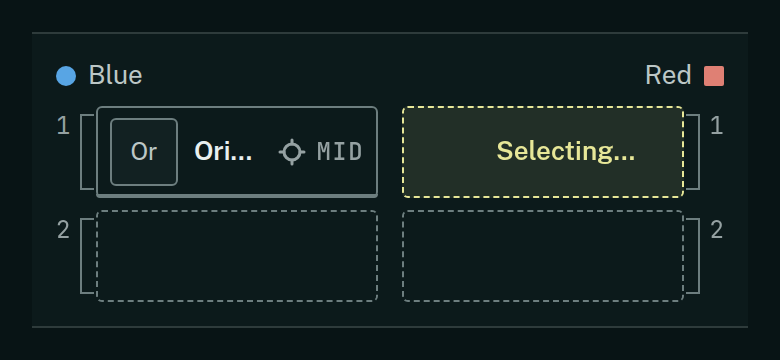
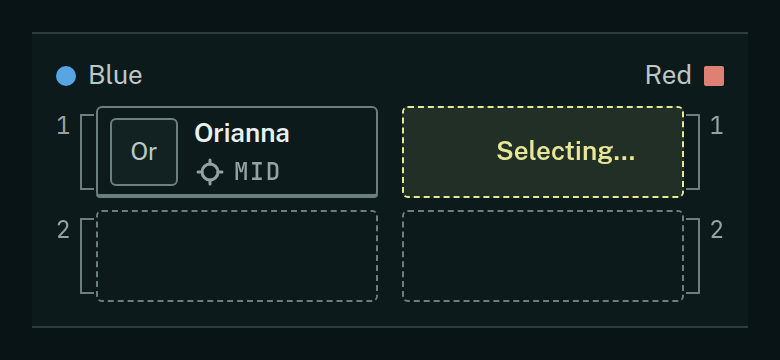
fix(m151): lock-in stacks role under 640 px, bulk-entry still, stamp static; atelier critiques

Changed region(s): [[0.2462, 0.3361, 0.4615, 0.5194]]

diff --git a/.planning/missions/M151/gallery/prototypes/lockin.html b/.planning/missions/M151/gallery/prototypes/lockin.html
@@ -45,7 +45,13 @@
             border: 1px solid var(--color-outline); border-radius: var(--radius-ctl); background: var(--color-ink-2);
             color: var(--color-secondary); }
   .gap8 { width: calc(var(--spacing) * 8); height: calc(var(--spacing) * 8); flex: none; }
-  .text { display: flex; flex: 1; flex-direction: column; min-width: 0; line-height: 1.25; }
+  /* Below sm (640 px) the name and the role stack; from sm up they share one line. */
+  .text { display: flex; flex: 1; flex-direction: column; align-items: flex-start; gap: 2px; min-width: 0; line-height: 1.25; }
+  .slot[data-filled="true"] .title { max-width: 100%; }
+  @media (min-width: 640px) {
+    .slot[data-filled="true"] .text { flex-direction: row; align-items: center; gap: calc(var(--spacing) * 2); }
+    .slot[data-filled="true"] .role { margin-left: auto; }
+  }
   .title { font-weight: 600; overflow: hidden; text-overflow: ellipsis; white-space: nowrap; }
   .title.sel { color: var(--color-accent); }
   .cap { color: var(--color-muted); }
@@ -86,7 +92,7 @@
 <main>
   <p class="eyebrow">M151 prototype, not wired into the board</p>
   <h1 class="text-headline">Lock-in</h1>
-  <p class="lede text-reading">A pick fills its slot: a chalk stroke draws along the bottom edge in 220 ms and the role mark settles. The stroke holds 400 ms, then hands to the outline colour. A second lock-in within one second is instant.</p>
+  <p class="lede text-reading">A pick fills its slot: a chalk stroke draws along the bottom edge in 220 ms and the role mark settles. The stroke holds 400 ms, then hands to the outline colour. A second lock-in within one second is instant (<code>bulkDemo()</code>).</p>
 
   <div id="board" class="board" role="grid" aria-label="Draft board, picks">
     <div class="col blue" role="row">
@@ -122,7 +128,7 @@
   // Draft order of these four pick slots, with the champion each takes.
   const ORDER = [
     { slot: 6, name: "Orianna", mono: "Or", role: "MID", label: "Blue pick 1" },
-    { slot: 7, name: "Vi", mono: "Vi", role: "JGL", label: "Red pick 1" },
+    { slot: 7, name: "Aurelion Sol", mono: "AS", role: "MID", label: "Red pick 1" },
     { slot: 8, name: "Ornn", mono: "Or", role: "TOP", label: "Red pick 2" },
     { slot: 9, name: "Jarvan IV", mono: "JI", role: "JGL", label: "Blue pick 2" },
   ];
@@ -144,9 +150,9 @@
   }
   function fill(el, o) {
     el.innerHTML = `<span class="avatar text-caption" aria-hidden="true">${o.mono}</span>` +
-      `<span class="text"><span class="title text-label">${o.name}</span></span>` +
+      `<span class="text"><span class="title text-label">${o.name}</span>` +
       `<span class="role text-caption"><svg viewBox="0 0 16 16" fill="none" stroke="currentColor" stroke-width="1.5" stroke-linecap="round" stroke-linejoin="round" aria-hidden="true">${MARKS[o.role]}</svg>` +
-      `<span aria-hidden="true">${o.role}</span></span><span class="lockbar" aria-hidden="true"></span>`;
+      `<span aria-hidden="true">${o.role}</span></span></span><span class="lockbar" aria-hidden="true"></span>`;
     el.setAttribute("aria-label", `${o.label}, ${o.name}, ${WORD[o.role]}`);
   }
   // The one moment: a pick fills its slot. Bulk entry (< 1 s since the last) is instant.
@@ -159,6 +165,9 @@
     document.getElementById("status").textContent =
       step < ORDER.length ? `${o.name} locked in. ${ORDER[step].label} of 10` : `${o.name} locked in.`;
   };
+  // Verification hook: keyboard bulk entry, two lock-ins within 1 s. The first animates,
+  // the second lands instantly (full-width outline bar, mark in place).
+  window.bulkDemo = function () { resetBoard(); lockIn(); lockIn(); };
   window.resetBoard = function () { step = 0; lastLock = -Infinity; render();
     document.getElementById("status").textContent = "Blue pick 1 of 10"; };
   render();

diff --git a/.planning/missions/M151/gallery/prototypes/stamp.html b/.planning/missions/M151/gallery/prototypes/stamp.html
@@ -28,15 +28,6 @@
   .stamp[data-result="Loss"] { background: transparent; color: var(--color-loss); }
   @media (min-width: 768px) { .stamp { width: 80px; height: 80px; font-size: 48px; } }
 
-  /* Candidate motion (see NOTES.md: the card says "Motion: none"). Drawn once, 160 ms, no scale, no rotation. */
-  .stamp[data-stamped="anim"] { animation: stamp-in var(--dur-2) var(--ease-out) both; }
-  .stamp[data-stamped="anim"] > span { animation: stamp-letter var(--dur-2) var(--ease-out) both; }
-  @keyframes stamp-in { from { opacity: 0; } to { opacity: 1; } }
-  @keyframes stamp-letter { from { transform: translateY(2px); } to { transform: none; } }
-  @media (prefers-reduced-motion: reduce) {
-    .stamp[data-stamped], .stamp[data-stamped] > span { animation: none; }
-  }
-
   .actions { margin-top: calc(var(--spacing) * 5); }
   button { font: inherit; height: calc(var(--spacing) * 8); padding: 0 calc(var(--spacing) * 3); border-radius: var(--radius-ctl);
            border: 1px solid var(--color-accent); background: var(--color-accent); color: var(--color-accent-ink); cursor: pointer; }
@@ -61,13 +52,5 @@
   </div>
   <div class="actions"><button type="button">Write the review</button></div>
 </main>
-<script>
-  // Present at first paint (the card). stamp() replays the candidate "drawn once" entrance.
-  window.stamp = function () {
-    document.querySelectorAll(".stamp").forEach((el) => {
-      delete el.dataset.stamped; void el.offsetWidth; el.dataset.stamped = "anim";
-    });
-  };
-</script>
 </body>
 </html>

diff --git a/.planning/missions/M151/critique-r0-t1.md b/.planning/missions/M151/critique-r0-t1.md
@@ -1,0 +1,109 @@
+# M151 critique R0: T1 stills, marks re-check, prototypes (atelier, 2026-10-16)
+
+Mode: critique. References: `references.md` (T1 card, Match Day field card, Lock-in, Post-game stamp, Mark grid spec, refs `map.png` / `map-grey.png` / `pressog.png`), `critique-marks.md`, `docs/DESIGN.md` (2.x accent rule line 202, Match Day line 421, chalk rule line 463, section 13 bans). I wrote the cards, not these builds: no self-approval conflict. This critique **amends the T1 card** (river, hatch, share crop, inset); the re-render of those amendments must go to a fresh-context critique, not to me.
+
+## What I ran
+
+- Opened every PNG named in the task (T1 stills + `-full`, marks contact 1280/390 at DPR 1/2, lock-in and stamp strips, rm and 800 ms frames), plus 4x to 10x crops of the sketch, the inset, the share strip and every 16 px mark at DPR 1 (`/tmp/m151r0/`, not committed).
+- Contrast from rendered pixels (WCAG relative luminance, ground `page` rgb 8,20,21 or `ink-1` rgb 12,26,27): sketch ink 8.3:1 at 390 and up to 10.8:1 at 1280 (crossing pixels), chalk 14.5:1, tick labels `muted` 7.0:1, Match Day inset 8.0:1, loss L + outline 6.7:1. All pass A2.
+- Visual mass at 1280 (luminance above ground, summed): headline 6,692 vs sketch 3,347. The headline holds on mass; the hatch still competes as *texture* (see concern 2).
+- `rubric-check.mjs --app-dir gallery/surfaces` on all three surfaces (phone + desktop), served locally, `NODE_PATH=e2e/node_modules`:
+
+| Row | landing | share | matchday | Note |
+|---|---|---|---|---|
+| V1 | PASS | PASS | PASS | tokens only |
+| V2 | FIX* | FIX* | FIX* | *`.sr-only` 1 px, `.btn` 1 px transparent border, 1 px SVG strokes: hairlines, not spacing. Accepted as not-a-finding. |
+| V3 | FIX* | PASS | FIX* | *heuristic counts source chars; rendered measure ~52 CPL. Accepted. |
+| V4, A1, A2, A3, I7 | PASS | PASS | PASS | |
+| I1, I2, I6, I8 | FIX | FIX | FIX | GUESS rows: app features (settings, undo) absent from a still. N/A here. |
+
+- Not run: a 50 ms first-frame capture (the gallery injects the art after `fetch`; production must inline the SVG server-side, as the builder notes). Lock-in bulk-entry capture: **missing from the deliverables** (see C).
+
+## Craft first (one sentence per question)
+
+- **Could you name the shape?** At 390 and in the share strip: yes, "a square with an X" / "slashes". That is the core failure: the hatch runs at 45 degrees **parallel to the mid lane**, so mid dissolves into the hatch, and the straight double-line river reads as two more hatch lines. Only the bases and the open corners say "map".
+- **Edge/stroke character vs reference?** One weight, one ink, open line ends: matches `map-grey.png` and `pressog.png`. But the builder's quadratic bows (<= 0.45 units) on frame, lanes and mid make the lines look mis-ruled (top lane drifts 3 px over 410 px at 1280), not hand-drawn: the worst of both. The card forbade faking a hand.
+- **Occludes content?** No. Chalk label has a clearing; hatch never touches text.
+- **Would a design director ship it?** Not yet: the skeleton is right, the hatch and river are wrong.
+
+## Rulings on the orchestrator's concerns
+
+1. **Mechanical vs one-stroke hand.** T1 promised a ruled survey schematic ("built from geometry ... never traced", "Do not: jitter or wobble to fake a hand", link-check calls it "one-stroke schematic"), not freehand. **Do not** move to a jittered, variable-width (1 to 1.5 px) hand generator: that breaks the one-weight rule and lands on the Excalidraw / "hand-drawn AI illustration" default (V7). The fix is cartographic, per swisstopo: **built things ruled, water free**. Straighten every lane and frame line (remove the bows); make the river the one curved feature. That gives the drawing its life and makes it read as the Rift, not an X.
+2. **Hatch too heavy.** Yes, as texture: ~60 % cover of long 45-degree lines over 560 px. Fix with direction (stop paralleling mid) and length (below), which cuts line length about 2.5x.
+3. **Match Day "both sides' marks facing".** My card asked for an 88 px thumbnail; the builder followed it. The phrase is not in `references.md` or on disk (if it is in the owner's brief, send me the line). Either way the render fails craft: at 88 px the 4-unit hatch is 3.5 px apart and goes to grey mush; the bases are 2.6 px dots. Fix below gives the two side shapes facing across the river.
+4. **V5 at 390 ("League team" in one second).** FIX. "Team" is in the headline; "League" rests on recognising lanes-river-bases, which the parallel hatch currently hides. Re-judge after fixes T1-1 to T1-3. No copy change from me (naming the game in copy is a legal question: ask the librarian).
+5. **Chalk count.** Landing 1280 and 390: **2** (Sign in, YOUR TEAM label + leader). Share 390: **1** (opponent label; no primary action on the page). Match Day 390: **1** (Read the brief). Landing's second chalk is card-sanctioned as "selection" (your team, surveyed) and sits on a diagonal away from the button at 1280: accept, but DESIGN line 202 ("not for decoration") must be amended to say so (flag below).
+
+## Builder's calls
+
+- **Chalk "RIVERSIDE ROOKS" on share:** allowed by the card, but in this crop it labels nothing (no base, no leader) and implies a side the data may not have. FIX (T1-5).
+- **Match Day header title "Northgate Academy":** REJECT. Your own team name carries no information on your own Match Day. Revert to DESIGN 421: title "Scrim vs Riverside Rooks"; change the field-card sentence to "Best of 3, with 2 of 5 prep steps done." (no opponent, no format repeated in the header meta: meta becomes "Northgate Academy · Patch 16.20 since 11 Oct", the time lives only in the lead figure).
+- **Quiet PrepSequence without chalk:** PASS. Builder work if T1 ships: `PrepEmphasis::Quiet` draws the next step's number box `border-outline` + `text-primary`, no `accent` (DESIGN 463).
+- **Baron/Dragon spot marks at 1280 only:** PASS (muted, with words, read as survey annotations). Move them per T1-2 so they sit in the *curved* river's pits, 2 units off the bank.
+- **Tower unused:** PASS. No tower on the sketch (would invite eleven more).
+
+## A. T1 stills
+
+| Still | V1 | V2 | V5 | V7 | V8 | A2 | A3 | A4 | I7 | Verdict |
+|---|---|---|---|---|---|---|---|---|---|---|
+| landing 1280 | PASS | PASS* | PASS (headline leads) | PASS | FIX (bows; hatch parallel to mid) | PASS | PASS | PASS | PASS | **FIX** |
+| landing 390 | PASS | PASS* | FIX | PASS | FIX | PASS | PASS | PASS | PASS | **FIX** |
+| share 390 | PASS | PASS* | n/a | PASS | FIX (label labels nothing) | PASS | PASS | PASS | PASS | **FIX** |
+| matchday 390 | PASS | PASS* | PASS (lead figure) | PASS | FIX (inset mush; header title) | PASS | PASS | PASS | PASS | **FIX** |
+
+V7: no gradient, blur, emoji, glow, parchment, sepia, brush, compass rose, Inter or rounded-card kit; Familjen display. Clean.
+
+### FIX list, `tools/build-t1-rift.py` (all in 100x100 units)
+
+**T1-1 Straight built features.** Set every `wobbly(...)` bow to 0 (frame, both lanes, mid); replace the lane `Q` paths with straight `L` polylines: top `M10,84.5 L10,10 L83.5,10`, bot `M15.5,90 L90,90 L90,16.5`, mid `M15.2,84.8 L83.5,16.5`. Keep the open corners (frame stops 1.5 short) and the open ends at the bases. Remove the river's `j(0.1)` jitter.
+
+**T1-2 Curved river (the one free line).** Centreline, point-symmetric about (50,50): `M14,14 C26,30 36,40 50,50 C64,60 74,70 86,86`. Banks: sample 48 points per cubic, offset +/-1.5 units along the normal, emit each bank as a polyline. Break both banks where they come within 2 units of the mid line (x + y = 100). Baron mark centre at (31,27), Dragon at (69,73) (in the bends, 2 units clear of the near bank); recompute `MARK_CLEAR` boxes around mark + word.
+
+**T1-3 Hatch: perpendicular to its lane, shorter, sparser.** Left and right triangles: horizontal hatches; top and bottom: vertical. Spacing 6 units (was 4), positions 20, 26, ... 80 along the lane. For the left triangle at height y: `avail = 40 - |y - 50|`; hatch from x = 13 to x = 13 + 0.55 * (avail - 5), then clip to end >= 2 units before the curved bank and the mid line; drop any hatch shorter than 3 units; seeded jitter +/-0.6 units on the inner end only. Other triangles by rotation (right = point reflection through (50,50); top/bottom = swap x and y). Keep `LABEL_CLEAR`. Same stroke and ink as everything else. Expected: lit pixels from ~6.4 % to ~3 % at 1280.
+
+**T1-4 Match Day inset (new `t1-inset.svg`, same generator, flag `--inset`).** 88 px, `ink-1` ground. No outer frame, no hatch, no labels. Lanes square 10..90 as T1-1; mid; river as a **single** centreline (T1-2 path, no banks: two banks 1.3 px apart merge). Bases enlarged: circle r 7 centre (14,86); square side 12 from (82,6) (centre 88,12); lanes and mid stop 3 units short of each base outline. These are the two side shapes facing across the river (ink only; no side colour, per card).
+
+**T1-5 Share crop names a base.** Crop by the plan's draft side (`draft.our_side`; opponent is the other side):
+- opponent red: viewBox `54 4.6 40 10.73`; chalk "RIVERSIDE ROOKS" (`eyebrow`, `accent`, page halo) right-aligned to x 82, baseline y 8; 1 px chalk leader (82.5,7.6) to (85,9).
+- opponent blue: viewBox `6 84.67 40 10.73`; label left-aligned at x 17, baseline y 93.2; leader (16.5,92.4) to (14.1,90.1).
+- no draft side: keep today's crossing crop with **no** label (card: no chalk unless it names the team the plan is about, and it may not invent a side).
+Card amended accordingly.
+
+**T1-6 Share title wrap.** "vs Riverside Rooks / - Game 1 plan" breaks before the hyphen. Display the seed separator as no-break space + en dash: `"vs Riverside Rooks – Game 1 plan"` (presentation only, at render).
+
+**T1-7 Match Day header:** title "Scrim vs Riverside Rooks"; meta "Northgate Academy · Patch 16.20 since 11 Oct"; field-card sentence "Best of 3, with 2 of 5 prep steps done."
+
+Re-capture all four stills (+ full) at DPR 1 **and** 2 and send to a fresh critique.
+
+## B. Marks after the FIX pass
+
+All eight FIX items from `critique-marks.md` landed as specified (paths verified in `public/marks/*.svg`; triangle keyline in `design_marks.rs` line 136; 24 px files hold 2 px via `stroke-width 1.33333`). At 16 px DPR 1: Bot now reads as a graduated scale, not RSS; Baron's solid core is crisp; Dragon's wave floats; Jungle inside the live area; Support in band. **PASS.** Watch items: Support's U + dot can read as a letter U beside "SUP"; Herald's 1.5 px points are the faintest element in the set (accepted earlier). Ship conditions unchanged: DESIGN 6.3/7 amendment in the same change; `alt=""` on any `<img>` use; never `text-accent` on a mark.
+
+## C. Prototypes
+
+**Lock-in** (strips 390/1280, 800 ms, rm). Motion matches the card: 220 ms scaleX from the slot edge, strong ease-out (bar ~70 % at 44 ms), mark settles 2 px, nothing else moves; 800 ms frame shows the bar in `outline`; reduced motion shows the end state at once; the `animation: none` reasoning in NOTES is correct. **FIX** two items:
+1. **Truncation "Ori..." at 390** (present even at 0 ms, because the invisible mark already takes width). Below `sm` (640 px), the pick slot stacks: line 1 champion name `text-label` (truncate only as a last resort), line 2 `RoleLabel` at `text-caption` with the 16 px mark. Both lines fit the existing slot height (about 18 + 16 px inside the 44 px slot); verify "Orianna" and "Aurelion Sol" in full. From `sm` up, keep one line as in the 1280 strip.
+2. **Missing verification:** capture the bulk-entry case (`data-locked="instant"`, a lock-in < 1 s after the last) as one frame at 0 ms showing the full-width `outline` bar and no chalk.
+
+**Stamp** (strips, rm). Craft PASS: square, radius 0, Win `win` fill / `win-ink` W, Loss 1.5 px outline (6.7:1), no rotation or texture, side with its shape in the sentence. **Ruling on motion: static at first paint. Delete `stamp-in` / `stamp-letter` and `window.stamp()`.** "Drawn once" in the brief means one stamp per page, present once, never replayed; a 160 ms opacity entrance on page load is decorative load motion (the fade-in default) and gives the server-rendered first frame an invisible stamp. Lock-in remains the product's only signature motion. **PASS** once the entrance is removed.
+
+## Verdict
+
+| Item | Verdict |
+|---|---|
+| T1 landing 1280 | FIX (T1-1, T1-2, T1-3) |
+| T1 landing 390 | FIX (same; V5 re-judge) |
+| T1 share 390 | FIX (T1-5, T1-6) |
+| T1 Match Day 390 | FIX (T1-4, T1-7) |
+| Marks (nine) | PASS |
+| Lock-in | FIX (stack below sm; bulk-entry frame) |
+| Stamp | PASS, static; remove the entrance |
+
+No REJECT: the T1 primitive (one-ink line schematic on geometry) is right; the hatch direction and the straight river are what make it an X.
+
+## Staleness flags
+
+- CONTRADICTION: docs/DESIGN.md line 202 ("chalk ... not for decoration") vs `references.md` T1 card (chalk team label on landing/share art): amend DESIGN to allow one chalk team label per artwork view, never on Match Day.
+- STALE: `references.md` T1 card: river "two parallel lines" straight, hatch "45-degree", share crop "river crossing": superseded by T1-2, T1-3, T1-5 of this critique (card to be updated by the calling session; I do not rewrite it here).
+- CONTRADICTION: `references.md` Match Day field card sentence ("Scrim vs Riverside Rooks. 3 of 5 ...") vs DESIGN 421 header title: resolved by T1-7 (header keeps the opponent; sentence drops it).
+- CONTRADICTION (open): docs/DESIGN.md 6.3 and 7 ("no role icons") vs the shipped marks.

diff --git a/.planning/missions/M151/critique-marks.md b/.planning/missions/M151/critique-marks.md
@@ -1,0 +1,59 @@
+# M151 critique: the nine marks (atelier, 2026-10-16)
+
+Mode: critique. Reference: `references.md` "Mark grid spec" + section 2 (Lucide principles, Phosphor 16-first, swisstopo key). Builder of record: the M151 builder (I wrote the spec, not the drawings, so no self-approval conflict).
+
+## What I ran
+
+- Read `public/marks/*.svg`, `build-marks.py`, `src/pages/design_marks.rs`, both contact sheets (1280, 390).
+- Rasterised every 16 px master with `rsvg-convert` at 16 px (DPR 1) and 32 px (DPR 2) on a page-tone ground; looked at nearest-neighbour 10x enlargements and at 3x soft enlargements (what an eye at arm's length sees). Work files are in `/tmp/m151crit/` (not committed).
+- Ink coverage per mark (alpha sum at 160 px) and stroke bounding box, to check optical weight and the live area (1 to 15).
+- Contrast from pixels in `marks-contact-1280.png`: the brightest 16 px stroke pixel in the "page, secondary" panel is 10.8:1 against the ground (rgb 8,20,21). Passes.
+- Not run: the mobile capture, motion and reduced-motion steps (the marks are static, nothing to animate) and `rubric-check.mjs` (it needs a running app render; this slice is a contact sheet). Re-run them on the `/design` gallery once fixes land.
+- Lint: `./scripts/lint_design.sh` gives OK, every rule at zero. Tokens: `stroke-rule` / `stroke-outline` come from `--color-rule` / `--color-outline` in `input.css` `@theme` (lines 104 and 105), so Tailwind v4 generates both. `text-label`, `text-reading`, `text-caption`, `text-secondary`, `text-primary`, `text-muted` all exist. No raw palette, no radius, no sub-12 text.
+
+## Weight (ink coverage at the 16 master; set median 23.1 %)
+
+| top | jungle | mid | bot | support | dragon | baron | herald | tower |
+|---|---|---|---|---|---|---|---|---|
+| 23.5 | 25.4 | 19.1 | **11.7** | **17.0** | 25.3 | 26.2 | 21.8 | 23.1 |
+
+Target band: median plus or minus 20 % (18.5 to 27.7). Bot is at half the median and support is under the band, which matches what you see in the inline strip: those two look like they belong to a lighter set.
+
+## Craft questions first (per mark, at 16 px beside the word)
+
+| Mark | Can you name the shape? | Edge/stroke character | Riot distance | Verdict |
+|---|---|---|---|---|
+| Top | trig point (triangle + dot), as briefed | clean, apex round join | summit, no corner L: far | **PASS** |
+| Jungle | three map trees | crowns read; the bottom trunk ends at y 15.25, **outside the live area**; right trunk 0.8 px from the bottom crown (rule: 1.5) | no branches or claw: far | **FIX** |
+| Mid | survey station / map "locate" | strongest mark at 16 | concentric, no diagonal: far | **PASS** (watch: never place it where it could pass for a "locate me" button) |
+| Bot | **yes: the RSS feed glyph** (dot + quarter arc) | thin; lightest by far | no bottom-right L: far | **FIX** |
+| Support | cup holding a point; the redraw fixed the smiley | fine, but the drawing is 10.6 px wide while the set spans 13.6 | U, not V crest: far | **FIX** (size) |
+| Dragon | diamond with a wave | the wave ends 0.7 px from the inner diamond edge, so at DPR 1 it fuses with the side vertices and reads as a diamond cut in half | no head or wing: far | **FIX** |
+| Baron | at 32: nested diamond. At 16: **a muddy ring with a grey hole** (the 1.33 px counter fills with antialiasing) | the inner shape is neither open nor solid | no horns or eye: far | **FIX** |
+| Herald | diamond with a dotted row | outer points at x 5.5 / 10.5 leave 1 px gaps (rule: 1.5) and sit on pixel centres while the middle one sits on a pixel edge, so the middle point renders dimmer | no eye or shell: far | **FIX** (small) |
+| Tower | lookout on a base line | crisp, open-based | no battlements, not the filled side square: far | **PASS** |
+
+Family coherence: one hand. One stroke width, round caps and joins, `currentColor`, stroke-only, diamond family for objectives, open forms for roles. Distinguishable as a set at 16 px (all nine read differently in the inline strip). DESIGN 1.13: no gamer ornament, no emoji, no confetti (nine marks, each with a word, is a vocabulary, not confetti). Anti-AI-illustration: none of the convergent defaults; nothing figurative.
+
+Labels: every mark in the gallery stands beside its word and is `aria-hidden`; the e2e test in `gallery.spec.ts` checks the word. The standalone SVG files carry `<title>`; wherever a file is used through `<img>`, it needs `alt=""` beside the word (otherwise the word is read twice).
+
+## FIX list (buildable; edit `build-marks.py` MARKS and `design_marks.rs` MARKS together)
+
+1. **Jungle**: three trees with 1-unit trunks, all inside 1 to 15, every gap at least 1.5:
+   `M2 5a2 2 0 1 0 4 0a2 2 0 1 0-4 0`, `M4 7v1`, `M10 4.5a2 2 0 1 0 4 0a2 2 0 1 0-4 0`, `M12 6.5v1`, `M6 11a2 2 0 1 0 4 0a2 2 0 1 0-4 0`, `M8 13v1`. (Bbox 1.25 to 14.75; trunk tip to bottom crown 1.5 on both sides; coverage 23.6 %.)
+2. **Bot**: keep the dot and arc, add three graduation ticks crossing the arc (radius 8 to 10 from the origin, at 22.5, 45, 67.5 degrees from vertical), so it reads as a sextant scale, not RSS:
+   add `M7.06 4.61L7.83 2.76`, `M9.66 6.34L11.07 4.93`, `M11.39 8.94L13.24 8.17`. Coverage 11.7 to 14.7 %. Still the lightest; acceptable, because the ticks give it a texture the others lack. Do **not** add a second concentric arc (that completes the RSS glyph) or radii (a corner L, banned).
+3. **Support**: widen and deepen the cup to the keyline width: cup `M3 3V8.5a5 5 0 0 0 10 0V3`, dot `M7.25 8.5a.75.75 0 1 0 1.5 0a.75.75 0 1 0-1.5 0`. Bbox 2.25 to 13.75 by 2.25 to 14.25; coverage 19.1 % (in band).
+4. **Dragon**: shorten the wave so it floats inside: `M5 8q1.5-2 3 0t3 0`.
+5. **Baron**: make the inner diamond a deliberate solid core rather than a failed counter: `M8 6.25L9.75 8L8 9.75L6.25 8Z` (its counter closes, the gap to the outer diamond is exactly 1.5 px). There is no room for a readable open inner diamond with 1.5 px gaps at 16 (2 strokes plus 2 gaps need 4.24 px of the 4.24 available).
+6. **Herald**: points at `M5 8h0M8 8h0M11 8h0` (gaps 1.5 px, all three points render alike). The 1.5 px point departure is accepted: three 3 px dots do not fit inside the diamond.
+7. **Gallery specimen** (`design_marks.rs` `mark_specimen`): add the triangle keyline `<path d="M2 13.25L8 2.75L14 13.25Z" />` to the dashed `stroke-outline` group so it matches the contact sheet and the spec (Top is drawn on it).
+8. **Contact sheet only**: the chalk panels are fine as a test, but the spec says marks are never chalk; make sure no shipped surface uses `text-accent` on a mark.
+
+## Verdict
+
+**Overall: FIX.** The family is right (one hand, one grid, far from the in-game icons, no bans hit), Top, Mid and Tower pass as drawn. Six marks need coordinate changes, two of them for craft rather than numbers: Bot reads as RSS, and Baron's centre muddies at 16 px. After the fixes, re-capture the `/design` marks section at 1280 and 390 (DPR 1 and 2) and send it to a fresh critique run; I checked these coordinates in throwaway renders, so the next pass should be a different context.
+
+## Staleness flags
+
+- CONTRADICTION: docs/DESIGN.md 6.3 and 7 ("no role icons") vs the shipped marks: still open from `references.md`; the amendment must land with the marks.
